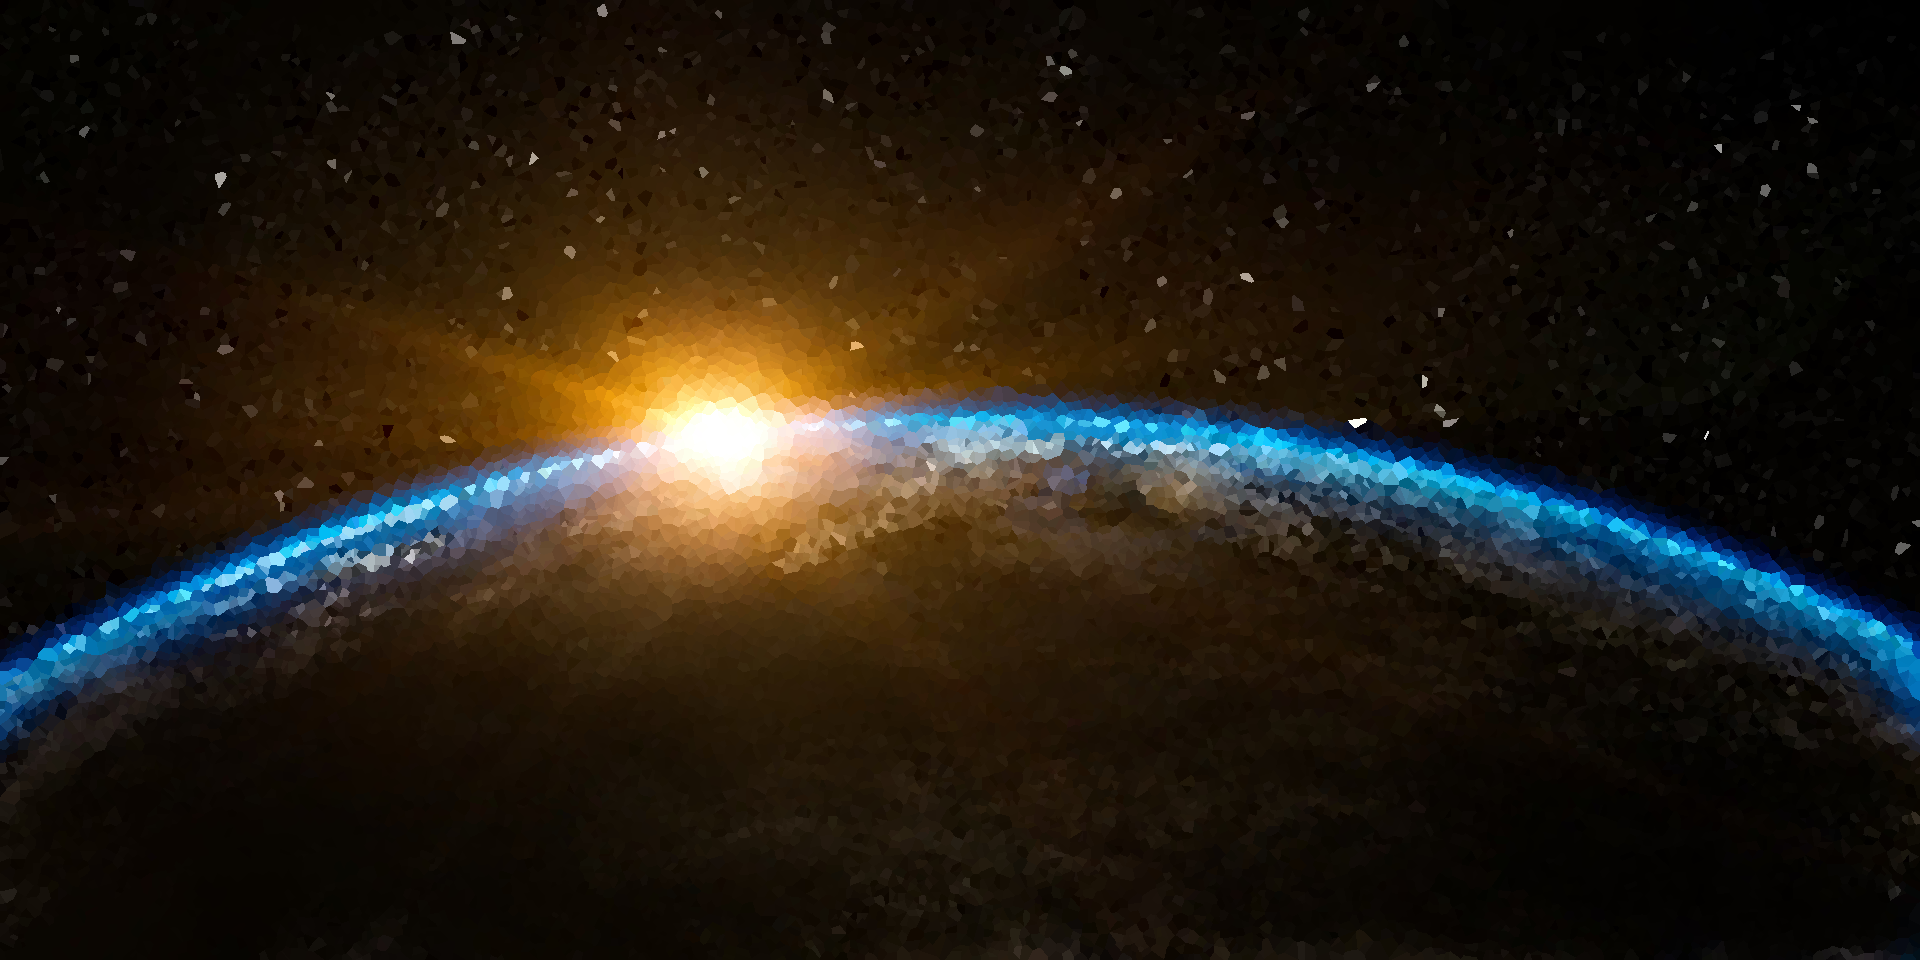
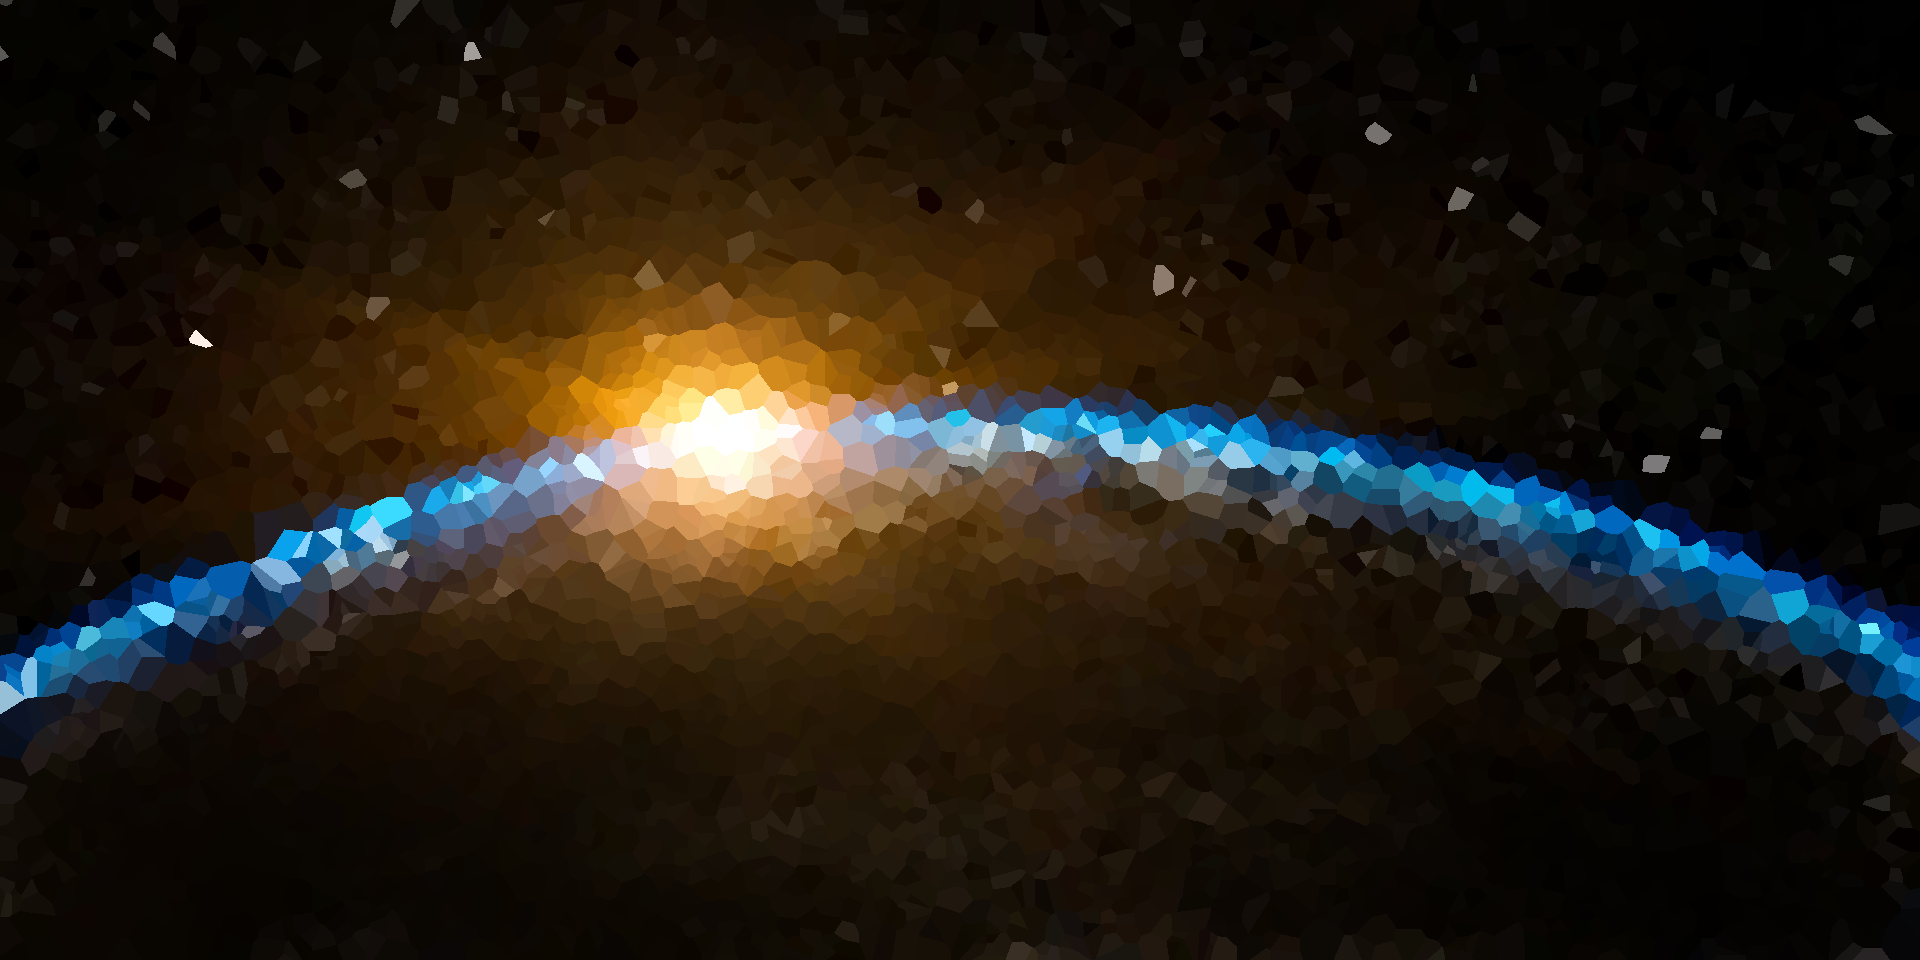
updated readme

diff --git a/src/KdMain.kt b/src/KdMain.kt
@@ -6,7 +6,7 @@ import javax.imageio.ImageIO
 
 class KdMain {
     companion object {
-        private var cells = 30000
+        private var cells = 6000
 
         private const val fileName = "input/space.jpg"
 

diff --git a/README.md b/README.md
@@ -1,6 +1,6 @@
 # Voronoi
 
-Constructs Voronoi diagrams
+Constructs Voronoi diagrams. Some samples:
 
 | Input                                                                                      	| Output                                                                                  	|
 |--------------------------------------------------------------------------------------------	|-----------------------------------------------------------------------------------------	|
@@ -8,6 +8,8 @@ Constructs Voronoi diagrams
 | ![sf](https://github.com/j-roskopf/Voronoi/blob/master/input/sf.jpg?raw=true)              	| ![sf](https://github.com/j-roskopf/Voronoi/blob/master/out/sf.png?raw=true)             	|
 | ![portrait](https://github.com/j-roskopf/Voronoi/blob/master/input/portrait.jpeg?raw=true) 	| ![portrait](https://github.com/j-roskopf/Voronoi/blob/master/out/portrait.png?raw=true) 	|
 
+
+Each can do a variable amount of cells to generate.
 
 BruteMain.kt - Brute force implementation. Very slow! Takes an image as input and generates Voronoi diagram over image.
 KdMain.Kt - Uses k-d tree for nearest neighbor lookup. Faster! Can do ~50,000 points in ~5 seconds. Takes an image as input and generates Voronoi diagram over image.
